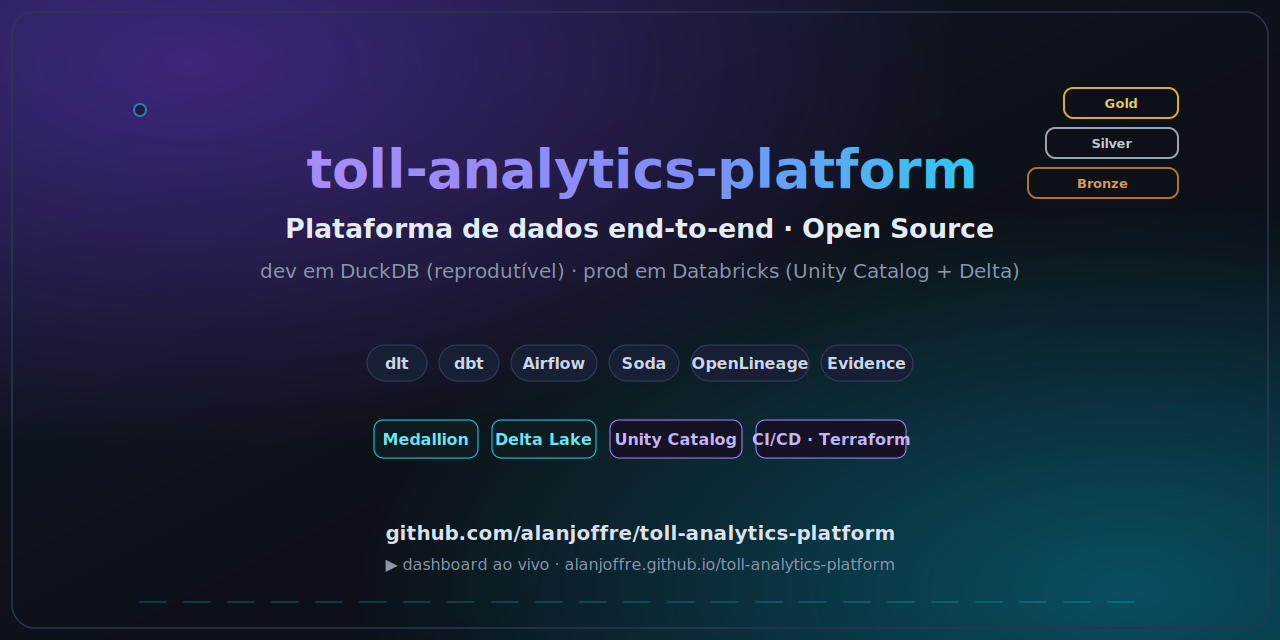
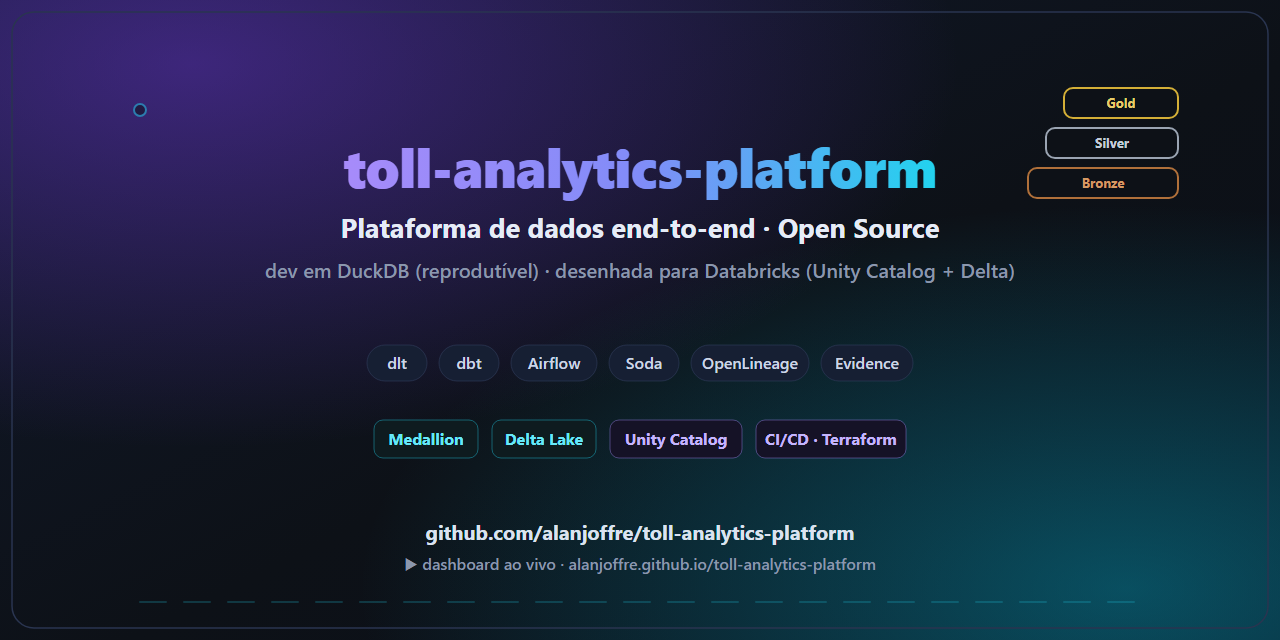
docs: prod descrito como "desenhado para Databricks" no README e nas artes
O README e as imagens diziam "prod em Databricks", mas o prod nunca foi
aplicado (Terraform validado, sem apply), como o próprio README já dizia
em outras seções. Agora tudo diz o mesmo. O social-preview.png é o mesmo
que já está configurado no GitHub.

diff --git a/README.md b/README.md
@@ -31,7 +31,7 @@ transformação à orquestração. Dados **sintéticos**: o repositório não co
 toll-analytics-platform/
 ├── ingestion-toll-analytics/  # INGESTÃO/EL (dlt → schema landing no DuckDB)
 ├── streaming-toll-analytics/  # STREAMING near-real-time (Redpanda/Kafka → micro-batch)
-├── dbt-toll-analytics/        # TRANSFORMAÇÃO (dbt + DuckDB dev / Databricks prod)
+├── dbt-toll-analytics/        # TRANSFORMAÇÃO (dbt; dev em DuckDB, prod desenhado p/ Databricks)
 ├── dbt-toll-exec/             # dbt MESH: downstream que consome os models public
 ├── quality-toll-analytics/    # DATA QUALITY independente (Soda Core)
 ├── bi-toll-analytics/         # BI / serving (Evidence.dev → site estático)
@@ -56,7 +56,7 @@ flowchart LR
     KAFKA["Redpanda/Kafka<br/>produtor -&gt; consumidor"]
   end
 
-  LAND[("landing (bronze)<br/>DuckDB dev / Databricks prod")]
+  LAND[("landing (bronze)<br/>DuckDB dev / Databricks prod (desenhado)")]
 
   subgraph TRANSF["Transformacao - dbt - Fases 1-3 e 5"]
     STG["staging (silver)"]
@@ -97,7 +97,7 @@ flowchart LR
 ```
 
 > **Escala (Fase 9):** gerador `faker` + benchmark — 100k transacoes em ~23s no DuckDB
-> (`PASS=192 ERROR=0`). `dev` roda 100% em DuckDB; `prod` em Databricks (Unity Catalog + Delta).
+> (`PASS=192 ERROR=0`). `dev` roda 100% em DuckDB; `prod` desenhado para Databricks (Unity Catalog + Delta; Terraform validado, sem apply).
 
 ## Os projetos
 | Projeto | O que faz | Entrar |
